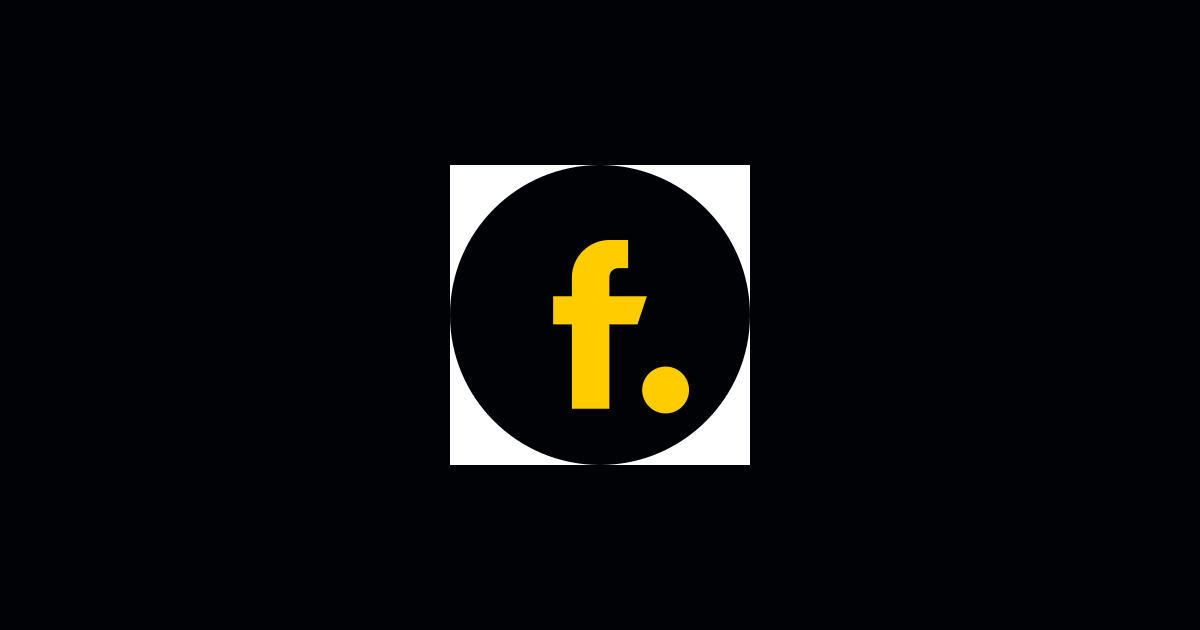
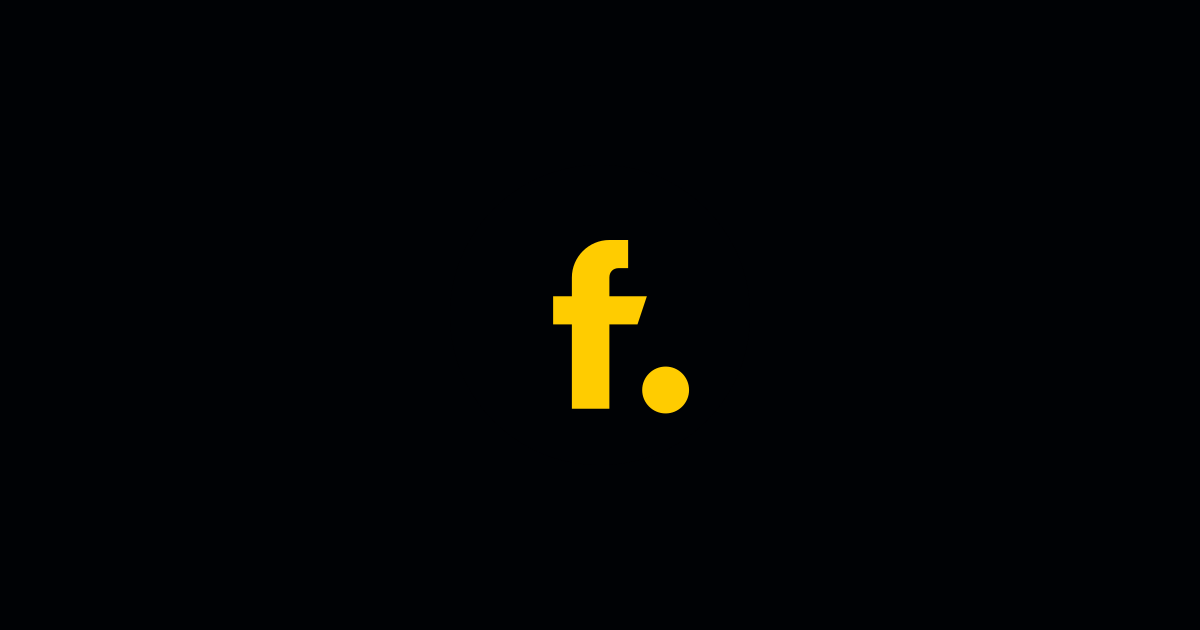
fix ogp image

diff --git a/scripts/generate-icons.js b/scripts/generate-icons.js
@@ -13,18 +13,23 @@ async function generate() {
         console.log('✅ apple-touch-icon.png generated');
 
         // 2. OGP画像 (1200x630) の生成
-        // ロゴを中央に配置するため、まずリサイズしてからextend（余白追加）します
-        await sharp('public/favicon.svg')
-            .resize(300, 300) // 中央に置くロゴのサイズ
-            .extend({
-                top: 165,    // (630 - 300) / 2
-                bottom: 165,
-                left: 450,   // (1200 - 300) / 2
-                right: 450,
+        // 背景色のベース画像を作成し、その上にリサイズしたロゴを合成します
+        const logo = await sharp('public/favicon.svg')
+            .resize(300, 300)
+            .toBuffer();
+
+        await sharp({
+            create: {
+                width: 1200,
+                height: 630,
+                channels: 3,
                 background: bg
-            })
+            }
+        })
+            .composite([{ input: logo, gravity: 'center' }])
             .png()
             .toFile('public/ogp.png');
+
         console.log('✅ ogp.png generated');
 
     } catch (err) {
